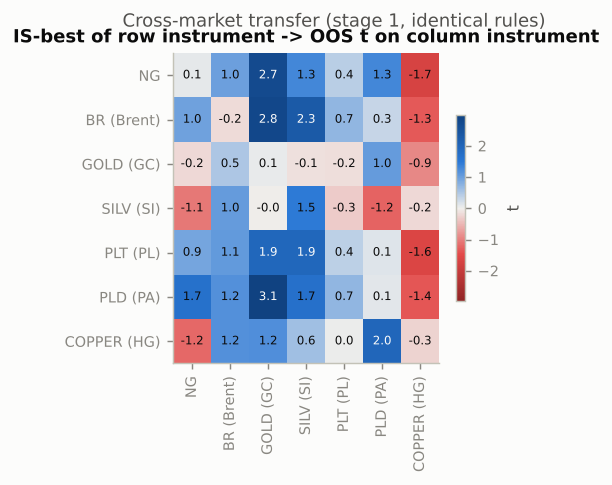
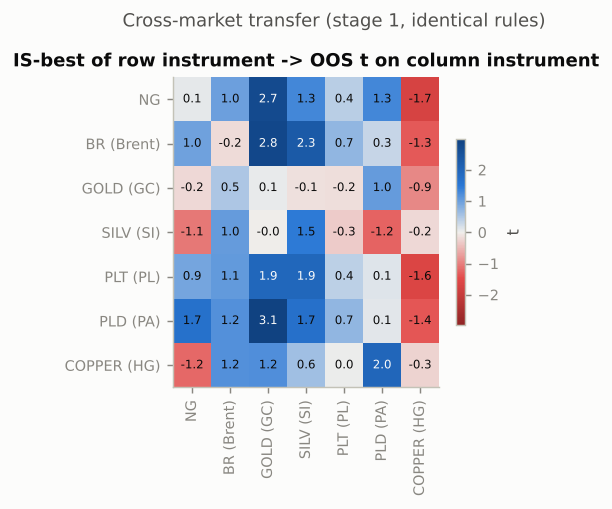
Correct two report statements and the transfer figure title
The study tables give PLD a stage-1 PBO of 0.27, not 0.07, and every
stage-3 finalist (7 of 7, COPPER on 16 trades) is profitable out of
sample, not 6 of 7. The cost remark now says 1-2 ticks a round trip eat
most or all of a 0.5-1.8 tick average trade.

matrix_grid lifts the suptitle above single-row panels, where it
overlapped the panel title; the cross-market transfer figure is redrawn
from its table and notebook 06 re-executed with it.

Claude-Session: https://claude.ai/code/session_01MsWdbveeMXvwd4qQF8cWSd

diff --git a/src/ma_slope/plots.py b/src/ma_slope/plots.py
@@ -90,7 +90,8 @@ def matrix_grid(mats: dict[str, np.ndarray], rows, cols, title, path, ncols=4, f
         ax.grid(False)
     fig.subplots_adjust(wspace=0.08, hspace=0.45)
     fig.colorbar(im, ax=axes.ravel().tolist(), shrink=0.6, label=cbar_label)
-    fig.suptitle(title, fontsize=10, color=INK2)
+    # A single row leaves no room under the default suptitle position: lift it above the panel titles.
+    fig.suptitle(title, fontsize=10, color=INK2, y=0.98 if nrows > 1 else 1.04)
     return _save(fig, path)
 
 
@@ -111,7 +112,7 @@ def ranges(categories, series: dict[str, tuple], title, ylabel, path):
 
 
 def small_multiples_lines(curves: dict[str, list[tuple[str, object, object]]], title, ylabel, path,
-                          vlines: dict | None = None, ncols=4):
+                          vlines: dict | None = None, ncols=4, zero_line=True):
     """One panel per key; each panel holds named (x, y) lines in fixed slot order."""
     names = list(curves)
     nrows = int(np.ceil(len(names) / ncols))
@@ -123,7 +124,8 @@ def small_multiples_lines(curves: dict[str, list[tuple[str, object, object]]], t
             ax.plot(x, y, color=SERIES[k], lw=1.3, label=label)
         if vlines and name in vlines:
             ax.axvline(vlines[name], color=INK2, lw=1)
-        ax.axhline(0, color=BASE, lw=0.8)
+        if zero_line:
+            ax.axhline(0, color=BASE, lw=0.8)
         ax.set_title(name)
         ax.tick_params(axis="x", rotation=30)
     axes.ravel()[0].set_ylabel(ylabel)

diff --git a/research/ma_cross_slope_5m/README.md b/research/ma_cross_slope_5m/README.md
@@ -29,8 +29,8 @@
 4. **Типы средних — эффект второго порядка.** Лучшие сочетания (медленная EMA с быстрой TMA, VWMA или SMA)
    дают средний по инструментам медианный OOS t 0,34–0,40, худшие (быстрая SSMA с медленной SMA или TMA) —
    около −0,1. Медленные EMA, SSMA и WMA немного лучше медленных SMA, TMA и VWMA.
-5. **Лучшие по IS конфигурации на OOS:** прибыльны на 6 из 7 рабочих инструментов, но OOS t всего
-   0,09–1,38. После поправки Холма значимых нет (минимум p = 0,58). Из 990 лучших конфигураций групп
+5. **Лучшие по IS конфигурации на OOS:** прибыльны на всех 7 рабочих инструментах (у COPPER — всего
+   16 сделок), но OOS t всего 0,09–1,38. После поправки Холма значимых нет (минимум p = 0,58). Из 990 лучших конфигураций групп
    ни одна не проходит FDR 5 % (минимальный q = 0,082). Максимальный IS t-плато (≈ 4,2) ниже ожидаемого
    максимума при 9 млн нулевых тестов (≈ 5,3).
 6. **Walk-forward (ежегодный переотбор) даёт положительный совокупный результат на всех 6 инструментах
@@ -41,7 +41,8 @@
 7. **Межрыночно** ни одна конфигурация, отобранная только по IS сразу на всех рынках, не остаётся
    положительной на OOS везде: лучшие дают плюс на 3–6 рынках из 7, средний OOS t 0,2–0,5.
 8. **Экономически преимущество хрупкое**: средняя OOS-сделка финалистов NG, BR и SILV — 0,5–1,8 тика,
-   её полностью съест один тик издержек на круг (комиссии и проскальзывание по ТЗ не учитывались).
+   издержки в 1–2 тика на круг съедят большую её часть или всю (комиссии и проскальзывание по ТЗ не
+   учитывались).
 
 ## 2. Данные
 
@@ -465,7 +466,7 @@ PLT 0,98, PLD 0,98. Только на PLT и PLD лучшая по IS конфи
 | GOLD (GC)    |         0.23 |         0.24 |
 | SILV (SI)    |         0.16 |         0.13 |
 | PLT (PL)     |         0.45 |         0.5  |
-| PLD (PA)     |         0.07 |         0.07 |
+| PLD (PA)     |         0.27 |         0.07 |
 
 На BR и PLT отбор по лучшему t переобучен (лучшая конфигурация одной половины оказывается ниже медианы
 на другой примерно в половине разбиений). На PLD, SILV, GOLD и NG ранги конфигураций сохраняются лучше
@@ -558,6 +559,17 @@ python scripts/build_ma_slope_notebook.py
 python scripts/run_notebook.py notebooks/06_ma_slope_research.ipynb
 ```
 
+Краткая презентация всей работы — от загрузки котировок до выводов — в
+[`notebooks/07_project_presentation.ipynb`](../../notebooks/07_project_presentation.ipynb). Её ячейки размечены как
+слайды, а `notebooks/07_project_presentation.slides.html` — та же презентация в виде слайдов reveal.js (открыть в
+браузере, листать стрелками). Сборка:
+
+```bash
+python scripts/build_presentation_notebook.py            # рисунки overview_prices, roll_example_plt, strategy_example_ng + ноутбук
+python scripts/run_notebook.py notebooks/07_project_presentation.ipynb
+python scripts/build_presentation_notebook.py --slides   # слайды из выполненного ноутбука
+```
+
 Полный пересчёт исследования с нуля:
 
 ```bash
@@ -586,8 +598,8 @@ python -c "from src.ma_slope import study; study.export_all()"    # компак
 
 **Исходный код**: `src/ma_slope/` (`averages.py` — средние и ATR, `signals.py` — пересечения и наклон,
 `kernel.py` — симулятор, `grid.py` — этапы, `analysis.py` — отбор и проверки, `finalist.py` — VectorBT и
-календарь, `study.py` — анализ и рисунки, `plots.py`), `scripts/ma_slope_research.py`,
-тесты `tests/test_ma_slope.py`.
+календарь, `study.py` — анализ и рисунки, `plots.py`, `presentation.py` — рисунки и таблицы презентации),
+`scripts/ma_slope_research.py`, тесты `tests/test_ma_slope.py`.
 
 **Машиночитаемые результаты** (`tables/`):
 
